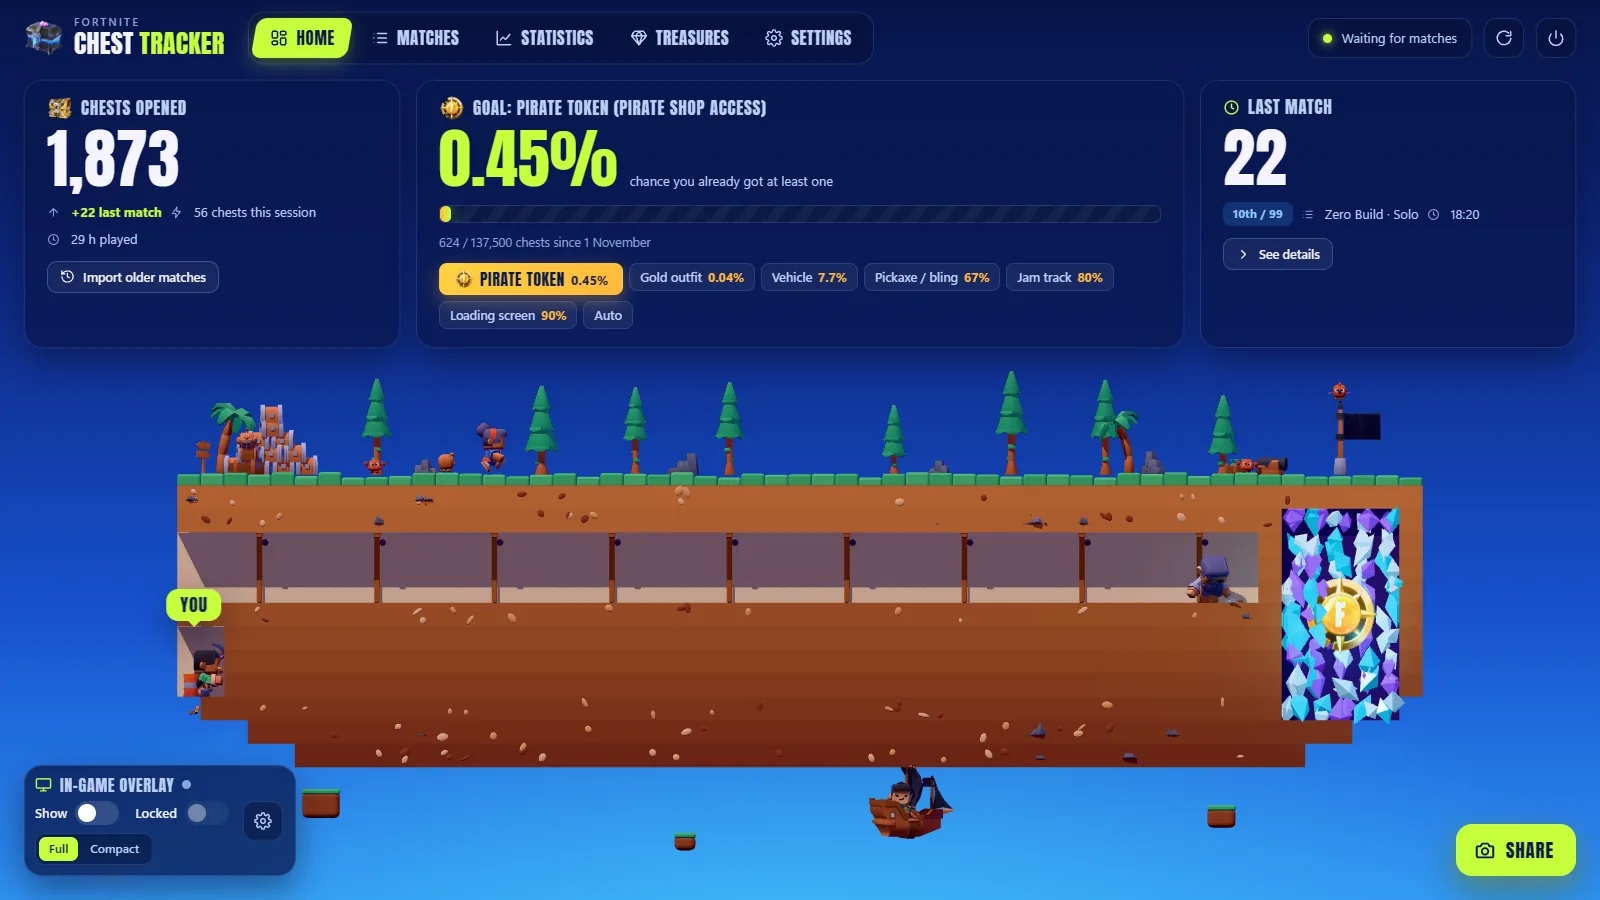
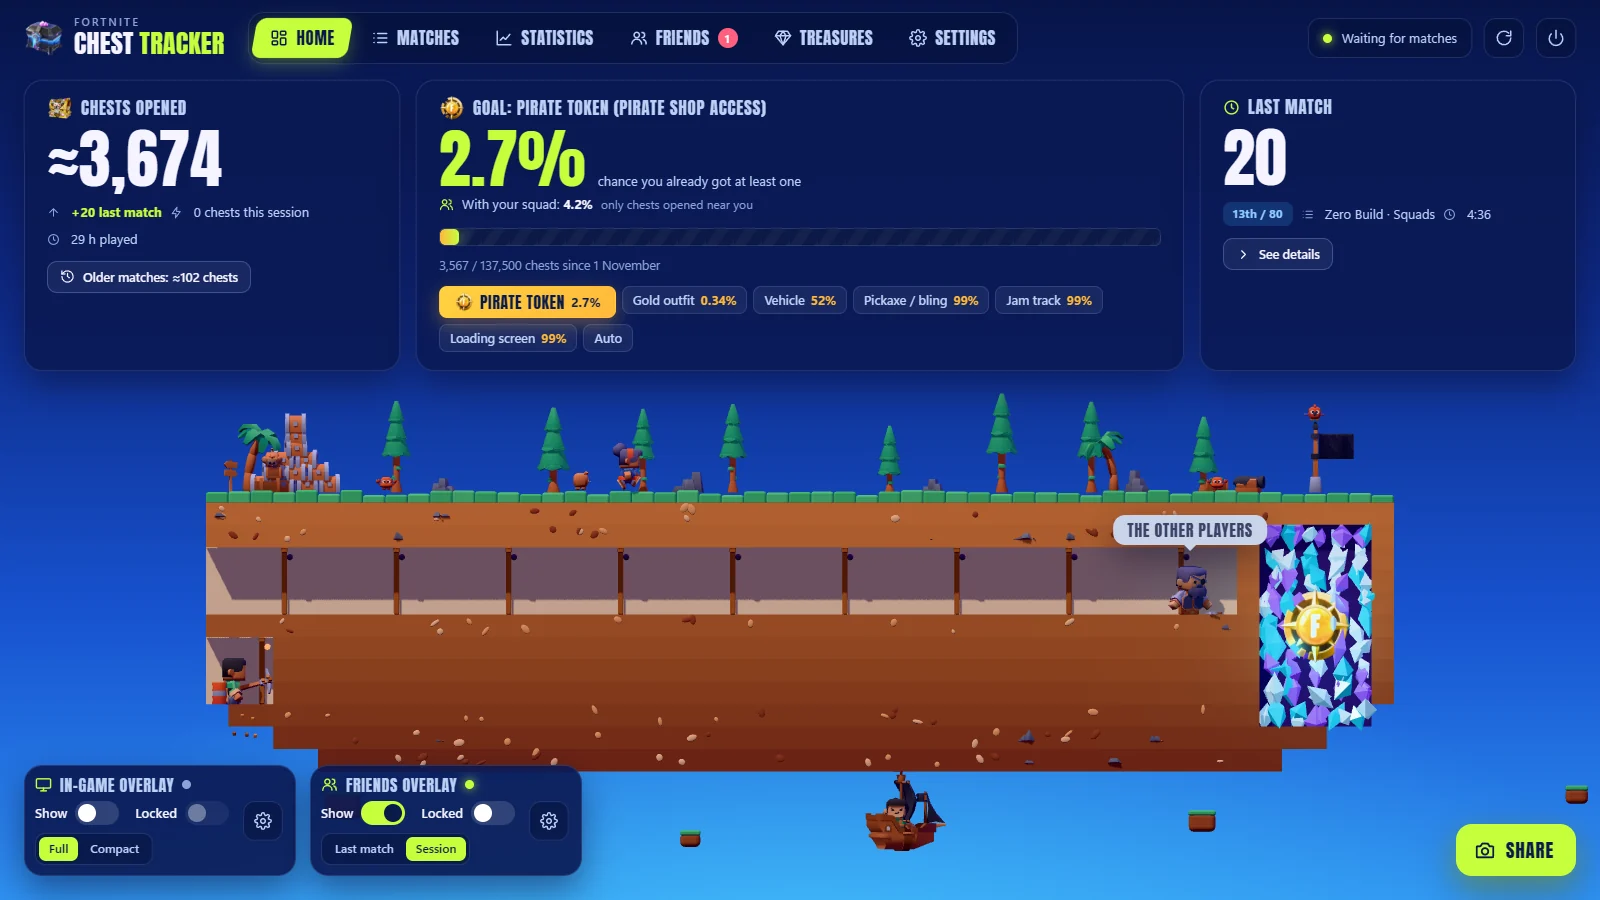
Site : aperçu de l'appli refait (8 captures à jour en français, anglais et espagnol, pseudo fictif) avec le nouvel onglet Amis

diff --git a/site/index.html b/site/index.html
@@ -118,6 +118,7 @@
         <button type="button" role="tab" id="gal-tab-home" data-shot="home" aria-controls="gal-panel" aria-selected="true" tabindex="0" class="on"><svg class="i" viewBox="0 0 24 24" aria-hidden="true"><path d="M3 11 12 4l9 7M5 10v10h14V10"/><path d="M10 20v-5h4v5"/></svg><span data-i18n="g_home"></span></button>
         <button type="button" role="tab" id="gal-tab-matches" data-shot="matches" aria-controls="gal-panel" aria-selected="false" tabindex="-1"><svg class="i" viewBox="0 0 24 24" aria-hidden="true"><path d="M9 6h12M9 12h12M9 18h12M4 6h.01M4 12h.01M4 18h.01"/></svg><span data-i18n="g_matches"></span></button>
         <button type="button" role="tab" id="gal-tab-stats" data-shot="stats" aria-controls="gal-panel" aria-selected="false" tabindex="-1"><svg class="i" viewBox="0 0 24 24" aria-hidden="true"><path d="M3 3v18h18"/><path d="m7 15 4-4 3 3 6-7"/></svg><span data-i18n="g_stats"></span></button>
+        <button type="button" role="tab" id="gal-tab-friends" data-shot="friends" aria-controls="gal-panel" aria-selected="false" tabindex="-1"><svg class="i" viewBox="0 0 24 24" aria-hidden="true"><circle cx="9" cy="8" r="3.5"/><path d="M2.5 20a6.5 6.5 0 0 1 13 0M16 4.5a3.5 3.5 0 0 1 0 7M18 14a6 6 0 0 1 3.5 6"/></svg><span data-i18n="g_friends"></span></button>
         <button type="button" role="tab" id="gal-tab-treasures" data-shot="treasures" aria-controls="gal-panel" aria-selected="false" tabindex="-1"><svg class="i" viewBox="0 0 24 24" aria-hidden="true"><path d="M6 3h12l3 6-9 12L3 9z"/><path d="M3 9h18M12 21 8 9l2-6M12 21l4-12-2-6"/></svg><span data-i18n="g_treasures"></span></button>
         <button type="button" role="tab" id="gal-tab-overlay" data-shot="overlay" aria-controls="gal-panel" aria-selected="false" tabindex="-1"><svg class="i" viewBox="0 0 24 24" aria-hidden="true"><rect x="2" y="4" width="20" height="14" rx="2"/><path d="M8 22h8M12 18v4M6 8h5v4H6z"/></svg><span data-i18n="g_overlay"></span></button>
         <button type="button" role="tab" id="gal-tab-share" data-shot="share" aria-controls="gal-panel" aria-selected="false" tabindex="-1"><svg class="i" viewBox="0 0 24 24" aria-hidden="true"><circle cx="18" cy="5" r="3"/><circle cx="6" cy="12" r="3"/><circle cx="18" cy="19" r="3"/><path d="m8.6 13.5 6.8 4M15.4 6.5l-6.8 4"/></svg><span data-i18n="g_share"></span></button>

diff --git a/site/i18n.js b/site/i18n.js
@@ -51,6 +51,7 @@ window.I18N = {
     gal_sub: "Opens in your browser, only on your PC.",
     g_home: 'Home', g_matches: 'Matches', g_stats: 'Statistics', g_treasures: 'Treasures', g_overlay: 'Overlay', g_share: 'Share', g_estimate: 'Older matches',
     gc_home: "Your total, your chance and your last match, over the 3D island.",
+    g_friends: "Friends", gc_friends: "Your squad, the ranking of who opens the most chests, your friends' odds and treasures.",
     gc_matches: "Every match by mode, with its chests, eliminations and duration.",
     gc_stats: "Average, best match, wins, chests per day and by type.",
     gc_treasures: "Treasure Hours, weekly prizes and your chance for each treasure.",
@@ -135,6 +136,7 @@ window.I18N = {
     gal_sub: "S'ouvre dans ton navigateur, seulement sur ton PC.",
     g_home: 'Accueil', g_matches: 'Parties', g_stats: 'Statistiques', g_treasures: 'Trésors', g_overlay: 'Overlay', g_share: 'Partage', g_estimate: 'Anciennes parties',
     gc_home: "Ton total, ta chance et ta dernière partie, sur l'île 3D.",
+    g_friends: "Amis", gc_friends: "Ton escouade, le classement de qui ouvre le plus de coffres, les chances et trésors de tes amis.",
     gc_matches: "Chaque partie par mode, avec ses coffres, éliminations et durée.",
     gc_stats: "Moyenne, meilleure partie, victoires, coffres par jour et par type.",
     gc_treasures: "Heures du trésor, prix de la semaine et ta chance pour chaque trésor.",
@@ -219,6 +221,7 @@ window.I18N = {
     gal_sub: "Se abre en tu navegador, solo en tu PC.",
     g_home: 'Inicio', g_matches: 'Partidas', g_stats: 'Estadísticas', g_treasures: 'Tesoros', g_overlay: 'Overlay', g_share: 'Compartir', g_estimate: 'Partidas antiguas',
     gc_home: "Tu total, tu probabilidad y tu última partida, sobre la isla 3D.",
+    g_friends: "Amigos", gc_friends: "Tu escuadrón, la clasificación de quién abre más cofres, las probabilidades y tesoros de tus amigos.",
     gc_matches: "Cada partida por modo, con sus cofres, eliminaciones y duración.",
     gc_stats: "Media, mejor partida, victorias, cofres por día y por tipo.",
     gc_treasures: "Horas del tesoro, premios semanales y tu probabilidad por tesoro.",

diff --git a/site/i18n-more.js b/site/i18n-more.js
@@ -46,6 +46,7 @@
     gal_kicker: 'In der App', gal_title: 'Eine Seite, die sich selbst füllt', gal_sub: "Öffnet sich in deinem Browser, nur auf deinem PC.",
     g_home: 'Start', g_matches: 'Matches', g_stats: 'Statistiken', g_treasures: 'Schätze', g_overlay: 'Overlay', g_share: 'Teilen', g_estimate: 'Ältere Matches',
     gc_home: "Gesamtzahl, Chance und letztes Match, über der 3D-Insel.",
+    g_friends: "Freunde", gc_friends: "Dein Trupp, die Rangliste, wer die meisten Truhen öffnet, die Chancen und Schätze deiner Freunde.",
     gc_matches: "Jedes Match nach Modus, mit Truhen, Eliminierungen und Dauer.",
     gc_stats: "Durchschnitt, bestes Match, Siege, Truhen pro Tag und Typ.",
     gc_treasures: "Treasure Hours, Wochenpreise und deine Chance auf jeden Schatz.",
@@ -140,6 +141,7 @@
     gal_kicker: 'Dentro do app', gal_title: 'Uma página que se preenche sozinha', gal_sub: "Abre no seu navegador, só no seu PC.",
     g_home: 'Início', g_matches: 'Partidas', g_stats: 'Estatísticas', g_treasures: 'Tesouros', g_overlay: 'Overlay', g_share: 'Compartilhar', g_estimate: 'Partidas antigas',
     gc_home: "Seu total, sua chance e sua última partida, sobre a ilha 3D.",
+    g_friends: "Amigos", gc_friends: "Seu esquadrão, o ranking de quem abre mais baús, as chances e tesouros dos seus amigos.",
     gc_matches: "Cada partida por modo, com baús, eliminações e duração.",
     gc_stats: "Média, melhor partida, vitórias, baús por dia e por tipo.",
     gc_treasures: "Treasure Hours, prêmios da semana e sua chance de cada tesouro.",
